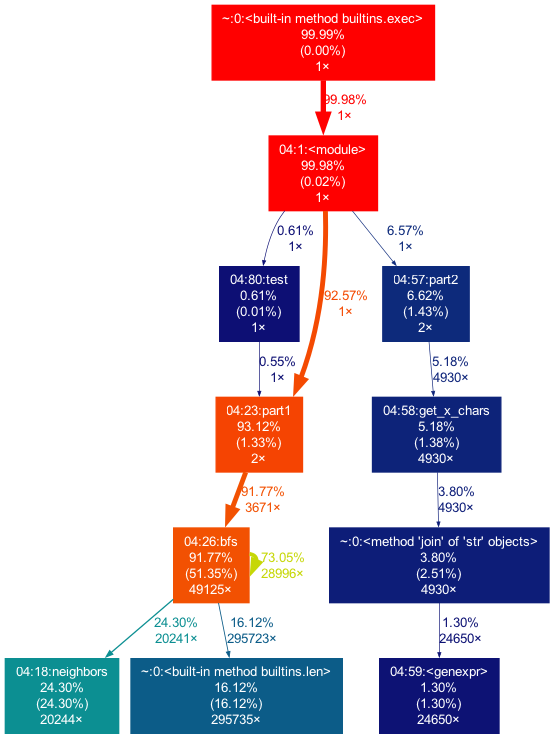
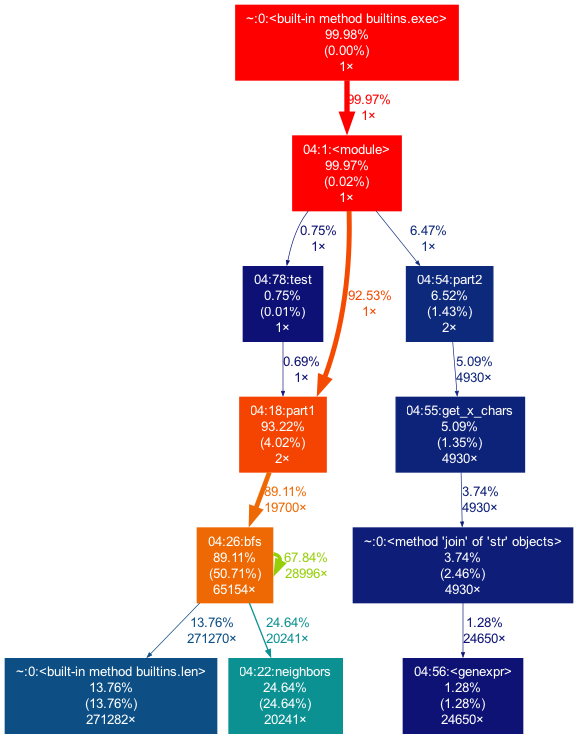
2024 day 4 - polish

Changed region(s): [[0.0, 0.0, 0.9819, 0.9959], [0.6751, 0.8714, 0.9206, 0.9959]]

diff --git a/2024/04.py b/2024/04.py
@@ -14,37 +14,41 @@ def read_input() -> str:
 
 
 # MAIN
-def neighbors(x, y, h, w) -> List[Tuple[int, int]]:
-    return [(x + i, y + j) for i in (-1, 0, 1) for j in (-1, 0, 1)
-            if (i, j) != (0, 0) and -1 < x + i < h and -1 < y + j < w]
 
+def part1(letters: List[str]) -> int:
+    keyword = 'XMAS'
+    height, width = len(letters), len(letters[0])
 
-def part1(given: List[str]) -> int:
-    KEYWORD = 'XMAS'
+    def neighbors(x, y) -> List[Tuple[int, int]]:
+        return [(x + i, y + j) for i in (-1, 0, 1) for j in (-1, 0, 1)
+                if (i, j) != (0, 0) and -1 < x + i < height and -1 < y + j < width]
 
-    def bfs(letters: List[str], paths: List[List[Tuple[int, int]]]):
-        if not paths:
-            return []
-        identified = []
+    def bfs(paths: List[List[Tuple[int, int]]]):
+        # identified = []
+        counter = 0
         for p in paths:
             x, y = p[-1]
-            if letters[x][y] == KEYWORD[len(p) - 1]:
-                if len(p) == len(KEYWORD):
-                    identified.append(p)
+            if letters[x][y] == keyword[len(p) - 1]:
+                if len(p) == len(keyword):
+                    # identified.append(p)
+                    counter += 1
                 else:
-                    for nx, ny in neighbors(x, y, len(letters), len(letters[0])):
+                    for nx, ny in neighbors(x, y):
                         if len(p) < 2 or p[-2][0] - x == x - nx and p[-2][1] - y == y - ny:  # word must not break, i.e. have the same direction
-                            identified.extend(bfs(letters, [p + [(nx, ny)]]))
+                            # identified.extend(bfs([p + [(nx, ny)]]))
+                            counter += bfs([p + [(nx, ny)]])
 
-        return identified
+        # return identified
+        return counter
 
-    height, width = len(given), len(given[0])
-    found = []
+    # found = []
+    result = 0
     for x in range(height):
         for y in range(width):
-            f = bfs(given, [[(x, y)]])
-            found.extend(f)
-    return len(found)
+            # found.extend(bfs([[(x, y)]]))
+            result += bfs([[(x, y)]])
+    # return len(found)
+    return result
 
 
 def part2(given: List[str]) -> int:
@@ -52,7 +56,8 @@ def part2(given: List[str]) -> int:
         return ''.join(letters[i][j] for i, j in [(x - 1, y - 1), (x - 1, y + 1), (x + 1, y - 1), (x + 1, y + 1)])
 
     height, width = len(given), len(given[0])
-    found = []
+    # found = []
+    result = 0
     for x, line in enumerate(given):
         for y, char in enumerate(line):
             if (
@@ -63,16 +68,14 @@ def part2(given: List[str]) -> int:
                     # ..A..  OR  ..A..  OR  ..A..  OR  ..A..
                     # .S.S.      .M.S.      .M.M.      .S.M.
             ):
-                found.append((x, y))
-    return len(found)
+                # found.append((x, y))
+                result += 1
+    # return len(found)
+    return result
 
 
 # TEST
 def test():
-    assert neighbors(0, 0, 2, 2) == [(0, 1), (1, 0), (1, 1)]
-    assert neighbors(1, 1, 2, 2) == [(0, 0), (0, 1), (1, 0)]
-    assert neighbors(1, 1, 3, 3) == [(0, 0), (0, 1), (0, 2), (1, 0), (1, 2), (2, 0), (2, 1), (2, 2)]
-
     given = parser("""
 MMMSXXMASM
 MSAMXMSMSA
